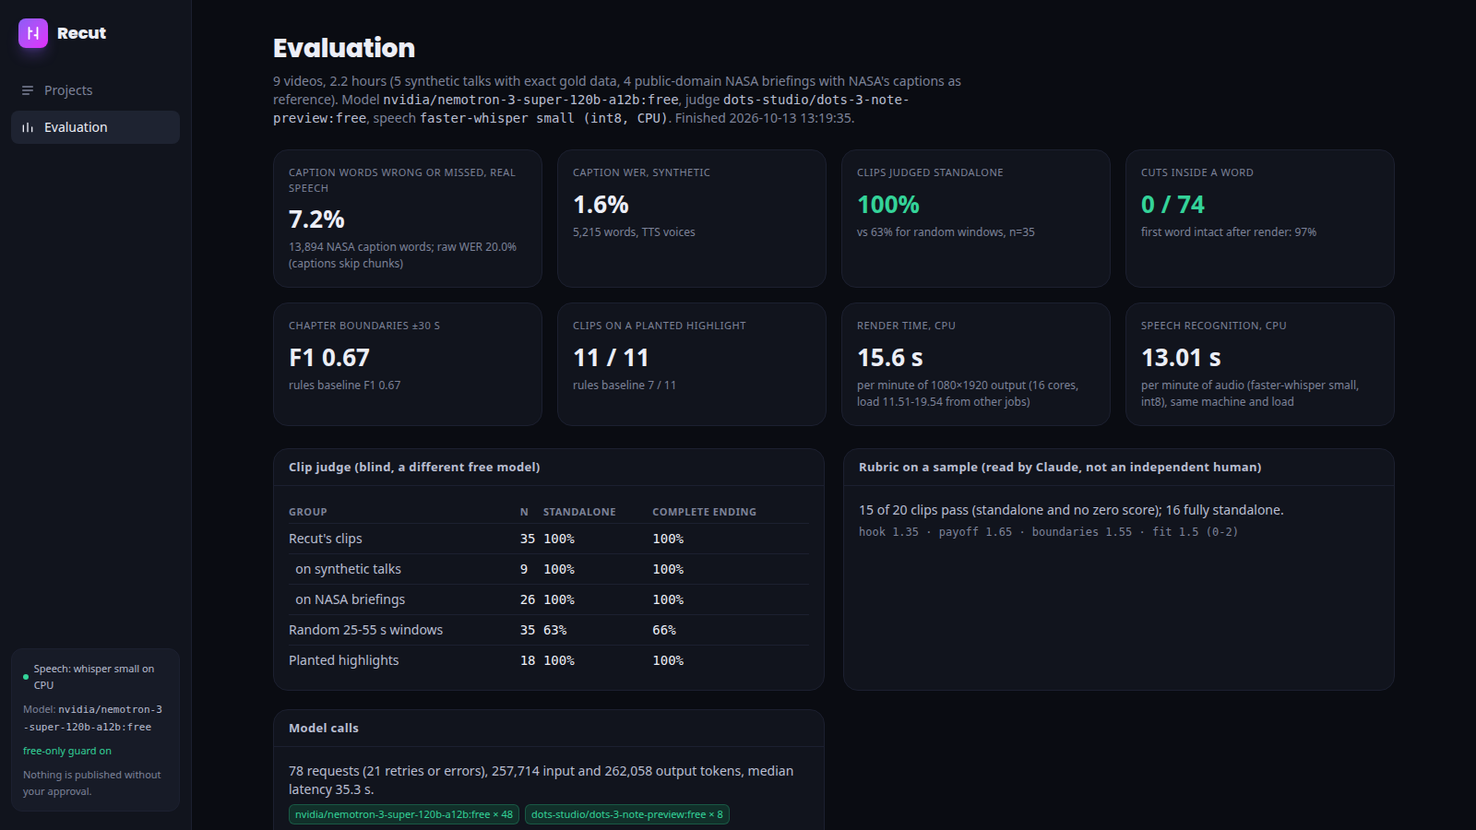
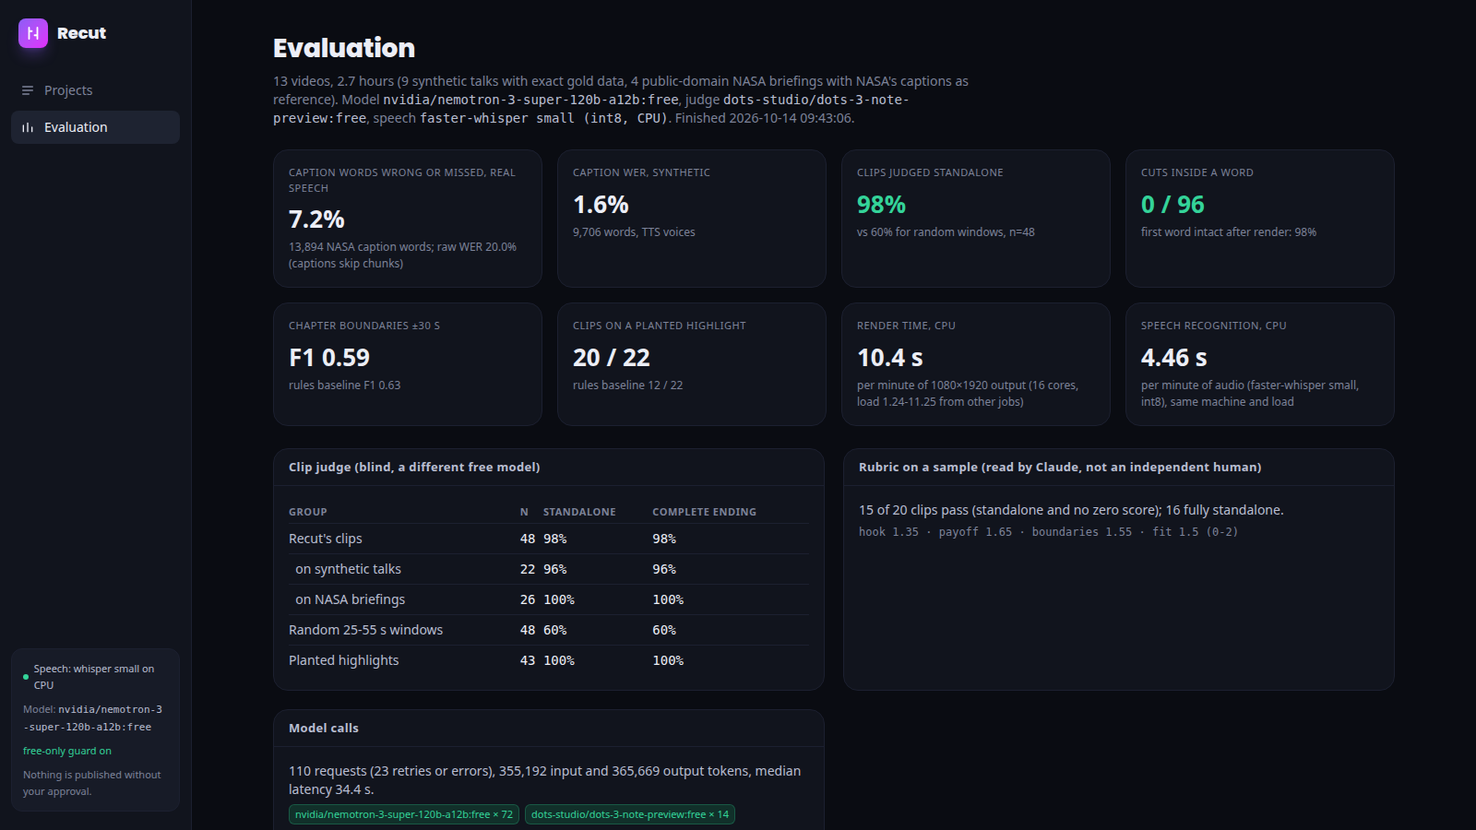
README: results on all 13 videos (second-day resume), quiet-machine timings, updated evaluation screenshot

diff --git a/README.md b/README.md
@@ -25,23 +25,24 @@ https://github.com/user-attachments/assets/abab3dde-958d-4442-ac78-7ac98495df4a
 
 <sub>Frames from rendered 9:16 clips, one per caption style (bold with the title card, boxed, karaoke, pop, minimal). The framing comes from face tracking, and the wide shot on the right stays wide because there are two people in it.</sub>
 
-**Measured on 2026-10-13** on a 16-core CPU with no GPU. The machine was shared with other jobs (load average 11 to 19). The test set has 13 videos, 2 h 40 min in total: 9 synthetic podcasts and talks with exact gold data and 4 public-domain NASA briefings. The free language model ran on 9 of them (2 h 10 min) before the free tier's daily request limit stopped the run ([details](#how-the-run-went)).
+**Measured on 2026-10-13 and 2026-10-14** on a 16-core CPU with no GPU. The test set has 13 videos, 2 h 40 min in total: 9 synthetic podcasts and talks with exact gold data and 4 public-domain NASA briefings. All 13 went through the free model. The run was split over two days because the free tier's daily request limit stopped it after 9 videos ([details](#how-the-run-went)).
 
 | | Result |
 |---|---|
-| Cuts inside a word | **0 of 74** model-picked cut points (0 of 102 for the rule baseline). When each rendered clip is transcribed again, its first word is intact in **36 of 37** clips and its last word in **37 of 37** |
+| Cuts inside a word | **0 of 96** model-picked cut points (0 of 102 for the rule baseline). When each rendered clip is transcribed again, its first word is intact in **47 of 48** clips and its last word in **47 of 48**. The two misses are recognition differences on a silent cut, not clipped words ([below](#1-clips)) |
 | Clips that stand on their own, rubric on a sample (scored by Claude, not by an independent human) | **16 of 20** fully standalone, **15 of 20** pass the whole rubric (hook, payoff, clean start and end, platform fit) |
-| Clips that stand on their own, blind LLM judge (`dots-3-note-preview:free`) | **35 of 35** model clips vs **63%** of random 25-55 s windows. On the 3 videos where the rule baseline was also judged: **17 of 17** model clips vs **9 of 17** rule-picked clips |
-| Clips that land on a planted highlight (synthetic talks) | **11 of 11** model clips vs **7 of 11** for the rule baseline. Recall is **11 of 23**, because it asks for 2-3 clips per 7-minute talk and every talk has 5 planted highlights |
-| Chapter boundaries vs gold (synthetic talks) | **9 of 9** predicted boundaries within ±15 s (mean error **2.7 s**), recall **50%** because about 3 chapters were requested per 7-minute talk while the scripts have 5. TextTiling baseline: 7 of 9 within ±15 s, mean error 6.7 s |
+| Clips that stand on their own, blind LLM judge (`dots-3-note-preview:free`) | **47 of 48** model clips vs **31 of 51** rule-picked clips (61%) and **60%** of random 25-55 s windows |
+| Clips that land on a planted highlight (synthetic talks) | **20 of 22** model clips vs **12 of 22** for the rule baseline. Recall is **20 of 43**, because it asks for 2-3 clips per 7-minute talk and every talk has 5 planted highlights |
+| Chapter boundaries vs gold (synthetic talks) | **15 of 20** predicted boundaries within ±15 s (mean error **1.9 s**); recall **44%**, because about 3 chapters were requested per 7-minute talk while the scripts have 5. TextTiling baseline: 13 of 20 within ±15 s, mean error 5.4 s |
 | Caption accuracy (faster-whisper `small`, CPU) | synthetic voices: **1.6% WER** (9,706 words). Real NASA speech: **7.2%** of NASA's caption words wrong or missed (13,894 words). Raw WER is 20.0% because NASA's live captions skip whole passages |
 | Speakers (light MFCC clustering, no model) | **98.6%** of words with the right speaker on 5 two-voice podcasts. The speaker count is right in **9 of 9** synthetic videos, and all 4 single-voice talks are kept as one speaker |
-| Framing | the face stays inside the 9:16 window in **96.8%** of sampled frames with face tracking vs 88.9% for a centre crop (25 tracked clips). The 12 slide-video clips automatically use the full frame over a blurred fill |
-| Posts | **42 of 42** social posts within platform limits with no cut needed. **12 flagged** by the grounding check: 6 repeat an invented "$1.10" and 6 repeat a misheard "$1,400". 2 of 9 videos got no social posts because the model ran out of tokens ([fixed](#findings-from-the-run-fixed), not re-run) |
-| CPU time | speech recognition **13 s** per minute of audio under this load (**3.5-5.3 s** when the machine was quiet). Rendering **15.6 s** per minute of 1080×1920 output, so a 40 s clip takes about 10 s. The free model needed **21 s** per minute of source for clips, chapters and texts |
-| Cost | **$0**: 127 requests to OpenRouter (78 for the evaluation run), every requested and served model `:free` ([ledger](results/calls.jsonl)) |
+| Framing | the face stays inside the 9:16 window in **96.8%** of sampled frames with face tracking vs 88.9% for a centre crop (25 tracked clips). The 23 slide-video clips automatically use the full frame over a blurred fill |
+| Posts | **78 of 78** social posts within platform limits with no cut needed. **12 flagged** by the grounding check: 6 repeat an invented "$1.10" and 6 repeat a misheard "$1,400". 12 of 13 videos got a YouTube-valid chapter list (the 2-minute demo episode is too short) |
+| CPU time (quiet machine) | speech recognition **4.5 s** per minute of audio. Rendering **10.4 s** per minute of 1080×1920 output, so a 40 s clip takes about 7 s. On the first day, with other jobs running (load average 11-19), these were 13 s and 15.6 s. The free model needed **20 s** per minute of source for clips, chapters and texts |
+| Cost | **$0**: 171 requests to OpenRouter (110 for the evaluation run), every requested and served model `:free` ([ledger](results/calls.jsonl)) |
 
-**The honest verdict:** the parts done in code behave the way they were designed to. No cut landed inside a word, and transcribing the rendered clips again backs this up. The one miss was a clip opening on the instrument name "KaRIn", which the second transcription heard differently; that cut sat 0.21 s before the word. Face tracking keeps the speaker in frame, every post fit its platform's limit, and the grounding check caught both real errors in the generated posts. The free model is good at picking moments: all 11 clips on the synthetic talks landed on a planted highlight, compared with 7 of 11 for the keyword rules, and its chapter boundaries were within 3 seconds on average. Two things are weaker than the table suggests. The LLM judge is lenient: it called 63% of random windows standalone and every model clip standalone. My own reading of a 20-clip sample is lower, 16 of 20 fully standalone, and the 4 that failed open with "that signal", "the gentler approach" or a garbled sentence. Also, the system only finds as many moments as it is asked for, so recall of the planted highlights is about half. The run also exposed mistakes upstream of the model. The test voice read "$10" as "a dollar ten", Whisper heard "$15 ... $400" as "$1.15 ... $1.400", and the model turned these into "$1.10" and "$1,400". The grounding check flagged every one of these posts. The free tier's daily limit stopped the model run after 9 of 13 videos, and the last four synthetic talks are evaluated only by the rule baseline. Details and every number's source are below.
+**The honest verdict:** the parts done in code behave the way they were designed to. No cut landed inside a word, and transcribing the rendered clips again backs this up: the two misses are a clip opening on the instrument name "KaRIn", which the second transcription heard differently, and a clip whose silent ending Whisper filled with a hallucinated "bye". Face tracking keeps the speaker in frame, every post fit its platform's limit, and the grounding check caught both real errors in the generated posts. The free model is good at picking moments: 20 of 22 clips on the synthetic talks landed on a planted highlight, compared with 12 of 22 for the keyword rules, and the blind judge called 47 of 48 of its clips standalone against 61% of the rule-picked ones. Its chapter starts were within 2 seconds when they were right, but 4 of 20 were more than 30 s from any real topic change. Two things are weaker than the table suggests. The LLM judge is lenient: it also called 60% of random windows standalone. My own reading of a 20-clip sample is lower, 16 of 20 fully standalone, and the 4 that failed open with "that signal", "the gentler approach" or a garbled sentence. Also, the system only finds as many moments as it is asked for, so recall of the planted highlights is under half. The run also exposed mistakes upstream of the model. The test voice read "$10" as "a dollar ten", Whisper heard "$15 ... $400" as "$1.15 ... $1.400", and the model turned these into "$1.10" and "$1,400". The grounding check flagged every one of these posts. The free reasoning model also sometimes spends its whole budget thinking and returns nothing: that cost 2 videos their social posts and 1 video its clips until retries were added. Details and every number's source are below.
+
 ## What problem it solves
 
 Creators, podcasters, coaches and agencies sit on hours of long-form video: interviews, webinars, livestreams, talks. The audience is on TikTok, Reels and Shorts, so every episode should also become five to ten vertical clips with captions, a YouTube description with chapters, show notes, a blog post and a post per platform. Done by hand that is a day of editing per episode: scrubbing for the good moments, cutting so a clip does not start mid-word or end before the point, reframing a 16:9 shot to 9:16 around the speaker, timing captions word by word, and writing the same episode up six different ways within six different character limits.
@@ -235,35 +236,39 @@ Everything is in [`results/`](results): one JSON per video per run ([`results/ma
 
 **Choosing the model** ([`smoke.json`](results/smoke.json)): six free models got the same clip-picking task on the demo episode. `nemotron-3-super` (43 s), `nemotron-3-ultra` (38 s) and `dots-3-note-preview` (44 s) all returned valid picks. `gemma-4-31b-it` was rate-limited upstream, `inkling` refuses non-agent clients, and `nemotron-3.5-lightning` spent its whole token budget thinking.
 
-**The daily limit.** The run stopped at 07:10 UTC, when OpenRouter answered `free-models-per-day` (the free tier's daily request cap, shared by every project on the account). At that point 9 of the 13 videos had been processed by the model. The four remaining synthetic talks are in the rule baseline (speech, speakers, chapters, cuts) but not in the model run. `make eval-resume` finishes them after the limit resets, using the disk cache for everything already answered.
+**The daily limit.** On 2026-10-13 the run stopped at 07:10 UTC, when OpenRouter answered `free-models-per-day` (the free tier's daily request cap, shared by every project on the account). At that point 9 of the 13 videos had been processed. After the limit reset, `make eval-resume` processed the four remaining synthetic talks on 2026-10-14 (02:07-02:45 UTC). It reused cached answers, asked the judge again where verdicts were missing, and wrote social posts for the two videos that had none. All 13 videos now have model results, and the comparisons below are on all 13 or on all 9 synthetic talks.
+
+**What changed on the second day.** The fixes listed under [Findings](#findings-from-the-run-fixed) were in the code: the two-request retry for social posts, the 16,000-token output ceiling, the clip-window retry, and the grounding fixes. One talk (the emergency-fund talk) first came back with **no clips**: the reasoning model spent its whole budget thinking about the clip request and returned nothing. A retry was added, the video was run again, and the same request succeeded on its first attempt the second time. Its chapters, texts and transcript came from the cache. Rendering times on the first day were measured under heavy load from other jobs, so the CPU benchmark was repeated on the quiet machine.
 
 ### 1. Clips
 
-| | Free model (9 videos) | Rule baseline (same 9) |
+| | Free model (13 videos) | Rule baseline (same 13) |
 |---|---|---|
-| Clips | 37 (median 32.7 s, all 20-60 s) | 40 (median 38.6 s) |
-| Cut points inside a word (Whisper word times) | **0 of 74** | 0 of 80 |
-| Cut points within 30 ms of a word / on audio louder than -12 dB vs speech | 2 / 6 | 0 / 13 |
-| Median audio level at the cut, relative to speech | -32 dB | -27 dB |
-| Rendered clips re-transcribed: first word / last word intact | **36 / 37**, **37 / 37** | (not rendered) |
-| Clips that land on a planted highlight (synthetic) | **11 of 11** | 7 of 11 |
-| Lint warnings (dangling reference, starts with a connector, tight or loud cut) | 27% of clips | 30% of clips |
+| Clips | 48 (median 36.6 s, all 20-60 s) | 51 (median 39.2 s) |
+| Cut points inside a word (Whisper word times) | **0 of 96** | 0 of 102 |
+| Cut points within 30 ms of a word / on audio louder than -12 dB vs speech | 3 / 7 | 2 / 14 |
+| Median audio level at the cut, relative to speech | -37 dB | -32 dB |
+| Rendered clips re-transcribed: first word / last word intact | **47 / 48**, **47 / 48** | (not rendered) |
+| Clips that land on a planted highlight (synthetic) | **20 of 22** | 12 of 22 |
+| Lint warnings (dangling reference, starts with a connector, tight or loud cut) | 23% of clips | 27% of clips |
+
+The two re-transcription misses are not clipped words. One clip opens on the instrument name "KaRIn", which Whisper spelled "Kerrin" the first time and heard as "a ..." the second; that cut sat 0.29 s before the word. In the other, the cut-out is in silence (-64 dB), and the second transcription added a hallucinated "bye" after the last real word.
 
 **Are the clips standalone?** Two independent checks were run, and they disagree on how often.
 
-- **The blind LLM judge** read only each clip's words, shuffled together with random 25-55 s windows and the planted highlights. It called **35 of 35** model clips standalone, **18 of 18** planted highlights, and also **63%** of random windows. It separates good clips from random ones, but it is lenient. On the 3 videos where the baseline's clips were judged too (the daily limit cut that off), it called **17 of 17** model clips and **9 of 17** rule-picked clips standalone. Two batches of the same random windows also got different verdicts (53% and 35% standalone), so the judge is noisy too.
-- **A rubric on a seeded sample of 20 clips** (10 synthetic, 10 NASA), scored 0-2 for standalone, hook, payoff, clean boundaries and platform fit, gave **16 of 20 fully standalone** and **15 of 20 passing** (standalone and no zero). Mean hook was 1.35 and mean payoff 1.65. The NASA clips are standalone (9 of 10) but weaker as social content (hook 1.1). The four that were not standalone open with "that signal", "the gentler approach", "The Welcome series" or a garbled sentence. **I (Claude, the AI assistant that built Recut) scored this rubric** by reading the transcripts; it is not an independent human rating ([`rubric.json`](results/rubric.json)).
+- **The blind LLM judge** read only each clip's words, shuffled together with random 25-55 s windows and the planted highlights. It called **47 of 48** model clips standalone, **43 of 43** planted highlights, and also **60%** of random windows. On the same 13 videos it called **31 of 51** rule-picked clips standalone (61%, against 53% for that batch's random windows). It separates good clips from random ones, but it is lenient and noisy: the same random windows got different verdicts in different batches (on 3 videos, 53% in one batch and 35% in another).
+- **A rubric on a seeded sample of 20 clips** (10 synthetic, 10 NASA, drawn on the first day from the 9 videos done by then), scored 0-2 for standalone, hook, payoff, clean boundaries and platform fit, gave **16 of 20 fully standalone** and **15 of 20 passing** (standalone and no zero). Mean hook was 1.35 and mean payoff 1.65. The NASA clips are standalone (9 of 10) but weaker as social content (hook 1.1). The four that were not standalone open with "that signal", "the gentler approach", "The Welcome series" or a garbled sentence. **I (Claude, the AI assistant that built Recut) scored this rubric** by reading the transcripts; it is not an independent human rating ([`rubric.json`](results/rubric.json)).
 
 ### 2. Chapters (synthetic talks, gold boundaries)
 
-| | Free model | TextTiling baseline |
+| | Free model (9 talks) | TextTiling baseline |
 |---|---|---|
-| Predicted / gold boundaries | 9 / 18 | 9 / 18 |
-| Within ±15 s (precision) | **9 of 9**, mean error **2.7 s** | 7 of 9, mean error 6.7 s |
-| Within ±30 s | 9 of 9 | 9 of 9 |
-| Recall | 50% | 50% (39% at ±15 s) |
+| Predicted / gold boundaries | 20 / 34 | 20 / 34 |
+| Within ±15 s (precision) | **15 of 20**, mean error **1.9 s** | 13 of 20, mean error 5.4 s |
+| Within ±30 s | 16 of 20 | 17 of 20 |
+| Recall at ±15 s / ±30 s | 44% / 47% | 38% / 50% |
 
-Both were asked for about one chapter every two minutes, which comes to 3 for a 7-minute talk, while the scripts have 5 sections of about 80 s. Recall is low for that reason. Precision is the more useful number: every chapter start the model proposed was a real topic change, within 3 seconds on average. 8 of the 9 videos produced YouTube-valid chapter lists. The 2-minute demo episode is too short for three chapters of 45 s.
+Both were asked for about one chapter every two minutes, which comes to 3 for a 7-minute talk, while the scripts have 5 sections of about 80 s. Recall is low for that reason. When the model's chapter starts are right they are very precise (1.9 s mean error, against 5.4 s for TextTiling), but at ±30 s the lexical baseline is just as good. On the talks added on the second day the model did worse: no boundary within ±15 s on the feedback talk, and 1 of 3 on the remote-teams talk. 12 of the 13 videos produced YouTube-valid chapter lists; the 2-minute demo episode is too short for three chapters of 45 s.
 
 ### 3. Speech and speakers
 
@@ -276,11 +281,11 @@ Speakers on 5 two-voice podcasts: **98.6%** of words got the right speaker after
 
 ### 4. Rendering and framing
 
-25 clips from the NASA videos used face tracking. The main face was inside the 9:16 window in **96.8%** of sampled frames, compared with 88.9% for a fixed centre crop. People at a press-conference table mostly sit near the middle, so a centre crop is already fairly good there. 12 clips from slide videos and the solar-sail B-roll fell back automatically to the full frame over a blurred fill. CPU time on the 16-core machine, while other jobs kept the load average at 11-19 ([`bench.json`](results/bench.json)): speech recognition 13 s per minute of audio (the same model took 3.5-5.3 s per minute earlier in the day, on a quieter machine), speaker clustering 0.1 s per minute, rendering **15.6 s per minute of 1080×1920 output** including face detection.
+25 clips from the NASA videos used face tracking. The main face was inside the 9:16 window in **96.8%** of sampled frames, compared with 88.9% for a fixed centre crop. People at a press-conference table mostly sit near the middle, so a centre crop is already fairly good there. 23 clips from slide videos and the solar-sail B-roll fell back automatically to the full frame over a blurred fill. CPU time on the 16-core machine, benchmarked when it was otherwise idle (load average 1.2 at the start; [`bench.json`](results/bench.json)): speech recognition **4.5 s** per minute of audio, speaker clustering under 0.1 s per minute, and rendering **10.4 s per minute of 1080×1920 output**, including face detection. On the first day, with other jobs keeping the load average at 11-19, the same benchmark measured 13 s and 15.6 s.
 
 ### 5. Posts and grounding
 
-The 7 videos with social posts got 42 posts, **all within their platforms' limits**, with no rewrite request and no cut needed. 2 videos got none: the free reasoning model used its whole token budget thinking about six posts at once. After the run, Recut was changed to retry in two smaller requests (and to tell the model that code measures the lengths), but the run was not repeated because of the daily limit.
+All 13 videos got their social posts: **78 of 78 within their platforms' limits**, with no rewrite request and no cut needed. On the first day, 2 videos got none, because the free reasoning model used its whole token budget thinking about six posts at once. With the two-request retry and a note in the prompt that code measures the lengths, both got all six posts on the second day.
 
 The grounding check flagged **12 social posts and 4 long-form passages**, and each flag pointed at something real:
 
@@ -288,16 +293,18 @@ The grounding check flagged **12 social posts and 4 long-form passages**, and ea
 - **"$1,400 grinder"** in the espresso talk. The script says "$15 kitchen scale ... $400 grinder", Whisper heard "$1.15 ... $1.400", and the model "corrected" it to $1,400.
 - **3 quotes with ellipses** in the NASA post-flight show notes, stitched together from separate sentences, so they are not verbatim.
 
-The first findings of the run, false alarms on numbers in the video title and in the licence credit (for example "1.0" from "CC0 1.0") and on "three and a half" written as "3.5", were fixed before these counts. The counts come from re-running the checks on the stored texts, with no new model calls.
+The first findings of the run, false alarms on numbers in the video title and in the licence credit (for example "1.0" from "CC0 1.0") and on "three and a half" written as "3.5" and on "fourth" written as "4th", were fixed before these counts. The counts come from re-running the checks on the stored texts, with no new model calls.
 
 ### Findings from the run, fixed
 
 - **Whisper splits numbers** into two "words" ("$40" + ",000"), which looked like "$40 ,000" in captions. They are now joined.
 - **Six posts in one request** sometimes used the reasoning model's whole output budget. The request now falls back to two smaller ones, and the output ceiling is 16,000 tokens.
-- **Grounding false positives** from the video title, the appended credit and "three and a half" (above).
+- **Grounding false positives** from the video title, the appended credit, "three and a half" and ordinals (above).
 - **NASA caption files that do not match the video's cut** (a 5.5-minute music intro, a different end). The scorer now aligns caption timing to the transcript's word density before computing WER.
 - **The script validator** rejected a draft with a 169-word chapter; the floor was lowered from 170 to 150 words.
-- **The clip judge** returned no verdicts for one video (the batch failed). It is recorded as unanswered and can be retried with `recut eval rejudge`.
+- **The clip judge** returned no verdicts for one video (the batch failed). It was recorded as unanswered and re-asked with `recut eval rejudge` on the second day.
+- **An empty answer to the clip request** (the reasoning model used its whole budget thinking) left one talk with no clips. A window that fails is now asked once more, with a request for a direct answer.
+- **"Every fourth week" written as "4th"** was flagged as an invented number; ordinals now count as grounded.
 
 ### Screenshots
 
@@ -309,11 +316,11 @@ The first findings of the run, false alarms on numbers in the video title and in
 | **Projects.** Every processed video with its stages and the upload panel. The licence is required before export. | **Evaluation.** The numbers above, read from `results/summary.json`. |
 ## Key design decisions
 
-**Why the model answers with sentence numbers, not timestamps.** A language model reading a transcript is good at the editorial question (is this a moment, does it stand on its own, what is the hook) and bad at arithmetic on timestamps. If it returns times, it returns times that cut words in half. So it gets numbered sentences and answers with a range of them; the cut itself is code: whole sentences, 20-60 s, in the quietest 30 ms of the silence on each side, checked against the word times and the audio level. That is why the evaluation finds 0 cuts inside a word out of 74.
+**Why the model answers with sentence numbers, not timestamps.** A language model reading a transcript is good at the editorial question (is this a moment, does it stand on its own, what is the hook) and bad at arithmetic on timestamps. If it returns times, it returns times that cut words in half. So it gets numbered sentences and answers with a range of them; the cut itself is code: whole sentences, 20-60 s, in the quietest 30 ms of the silence on each side, checked against the word times and the audio level. That is why the evaluation finds 0 cuts inside a word out of 96.
 
 **Why a lint next to the model's scores.** Asked whether its own pick "stands alone", a model says yes with a high score almost every time. The lint is cheap and boring: it flags a clip that opens with "And", "He" or "That", says "as I said", opens with a greeting or ends on a question, and those findings lower the ranking and are shown to the reviewer. The blind judge in the evaluation is a second opinion from a different model family.
 
-**Why a live preview before rendering.** Rendering a minute of 1080x1920 takes about 16 s on CPU. The editor frames the source, draws the caption style and highlights the spoken word in the browser, from the same framing plan and word times the renderer uses, so trimming and fixing captions is instant and the render happens once, at the end.
+**Why a live preview before rendering.** Rendering a minute of 1080x1920 takes about 10 s on CPU. The editor frames the source, draws the caption style and highlights the spoken word in the browser, from the same framing plan and word times the renderer uses, so trimming and fixing captions is instant and the render happens once, at the end.
 
 **Why face tracking with a slow camera.** Following a face box frame by frame looks like a security camera. The virtual camera only moves when the face leaves a dead zone, at a capped speed, and cuts (instead of panning) at a shot change. When there is no face in most frames (slides, screen recordings, B-roll), cropping a 16:9 frame to its middle third loses the content, so the auto layout shows the full frame over a blurred fill instead.
 
@@ -380,7 +387,7 @@ make web-build   # next build
 make eval-rules  # the whole evaluation with the offline rules (no API calls)
 ```
 
-177 tests:
+178 tests:
 
 | Suite | What it covers |
 |---|---|
